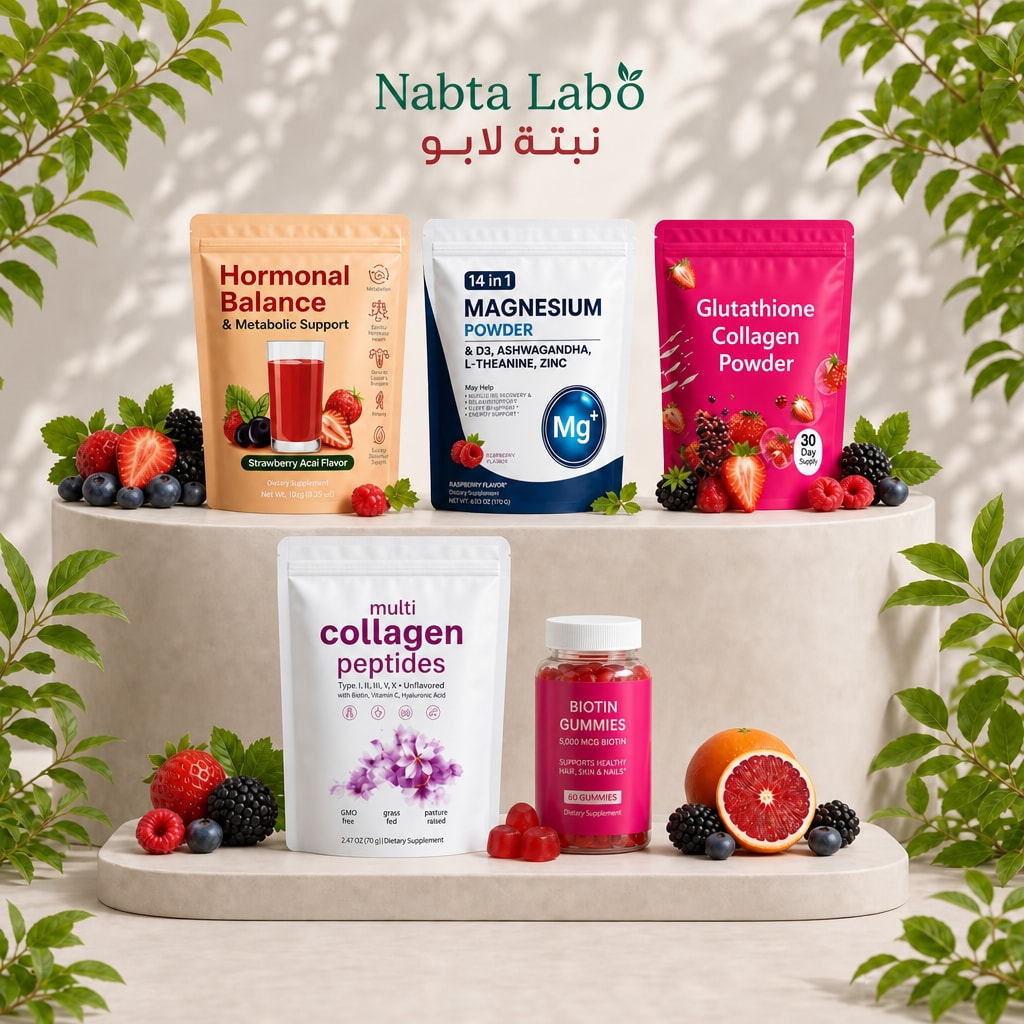
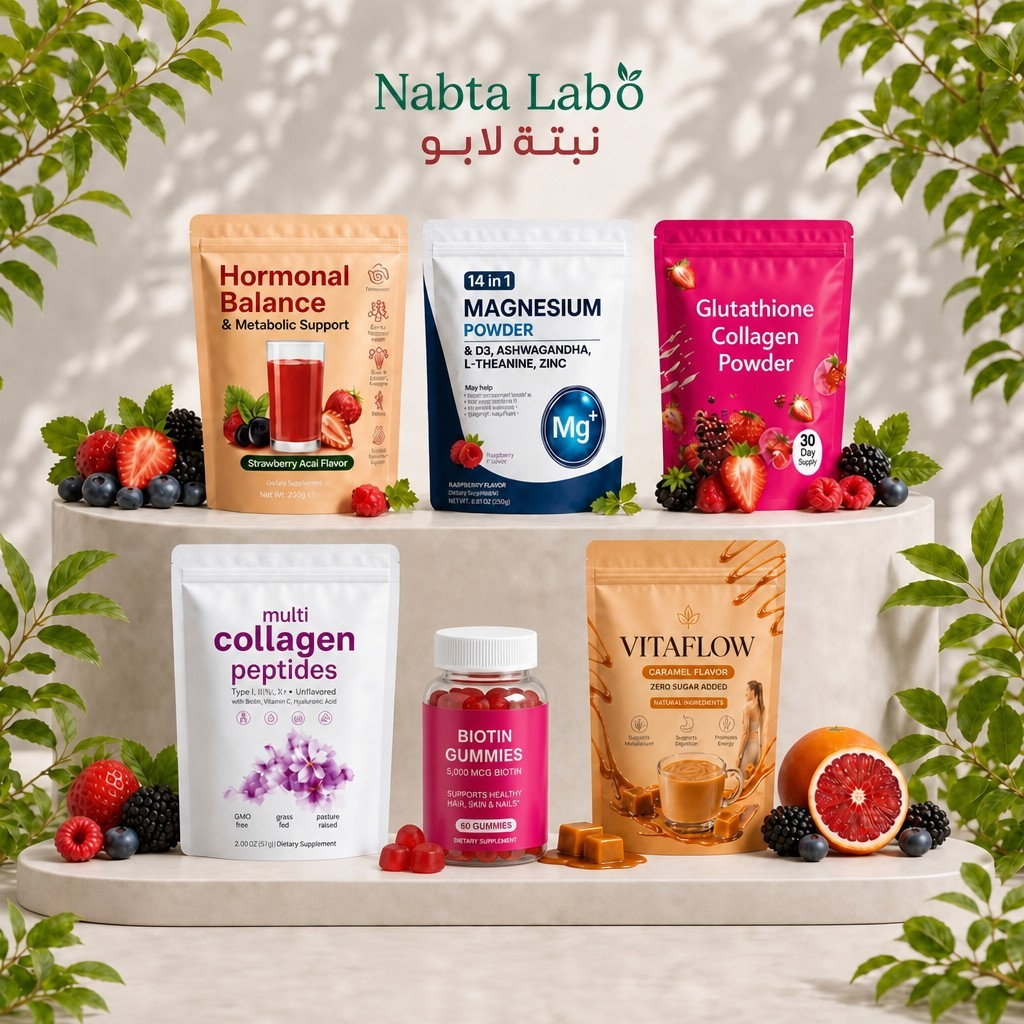
Update homepage hero lineup with VitaFlow and balanced biotin jar.

diff --git a/app/page.tsx b/app/page.tsx
@@ -199,7 +199,7 @@ export default function HomePage() {
                   <div className="relative aspect-square">
                     <Image
                       src="/hero-store-trio-v2.jpg"
-                      alt="أربعة منتجات نبتة لابو — بيوتين، توازن هرموني، مغنيسيوم، وغلوتاثيون كولاجين"
+                      alt="منتجات نبتة لابو — مساحيق وفيتا فلو وعلكة البيوتين"
                       fill
                       priority
                       sizes="(max-width: 768px) 90vw, 36rem"
